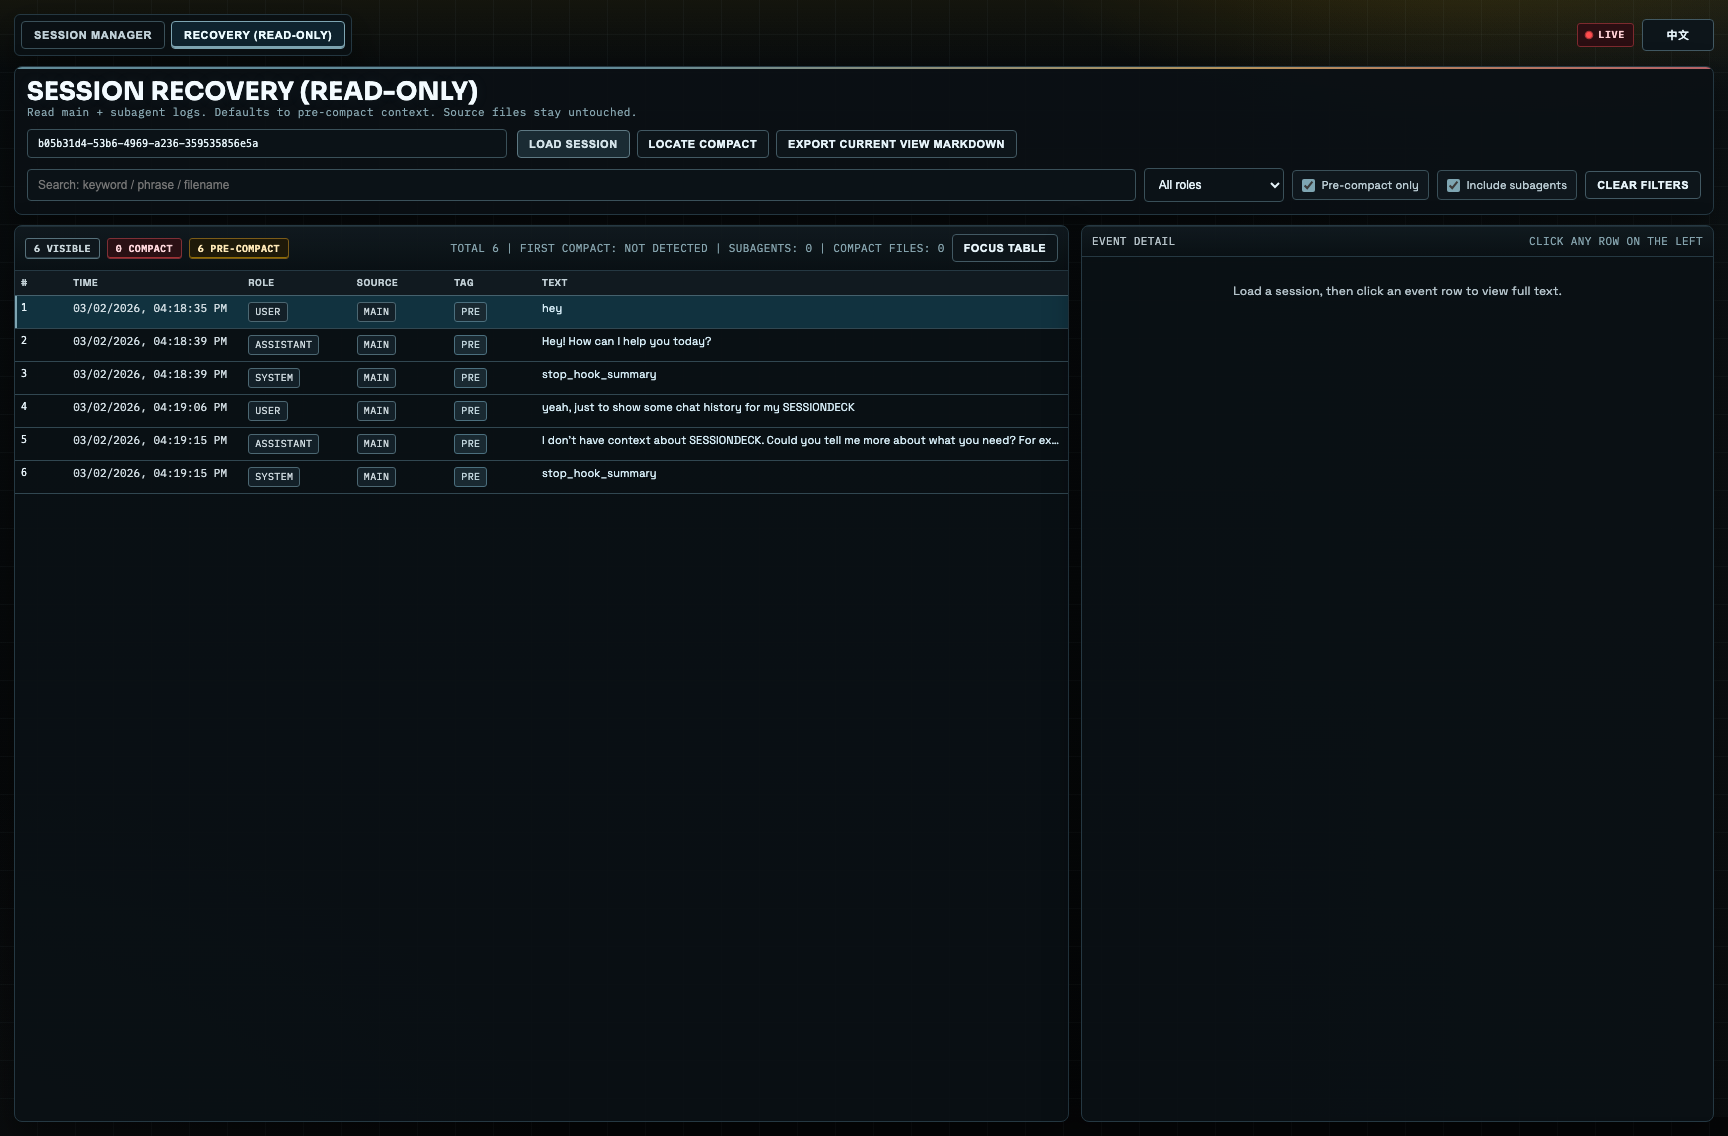
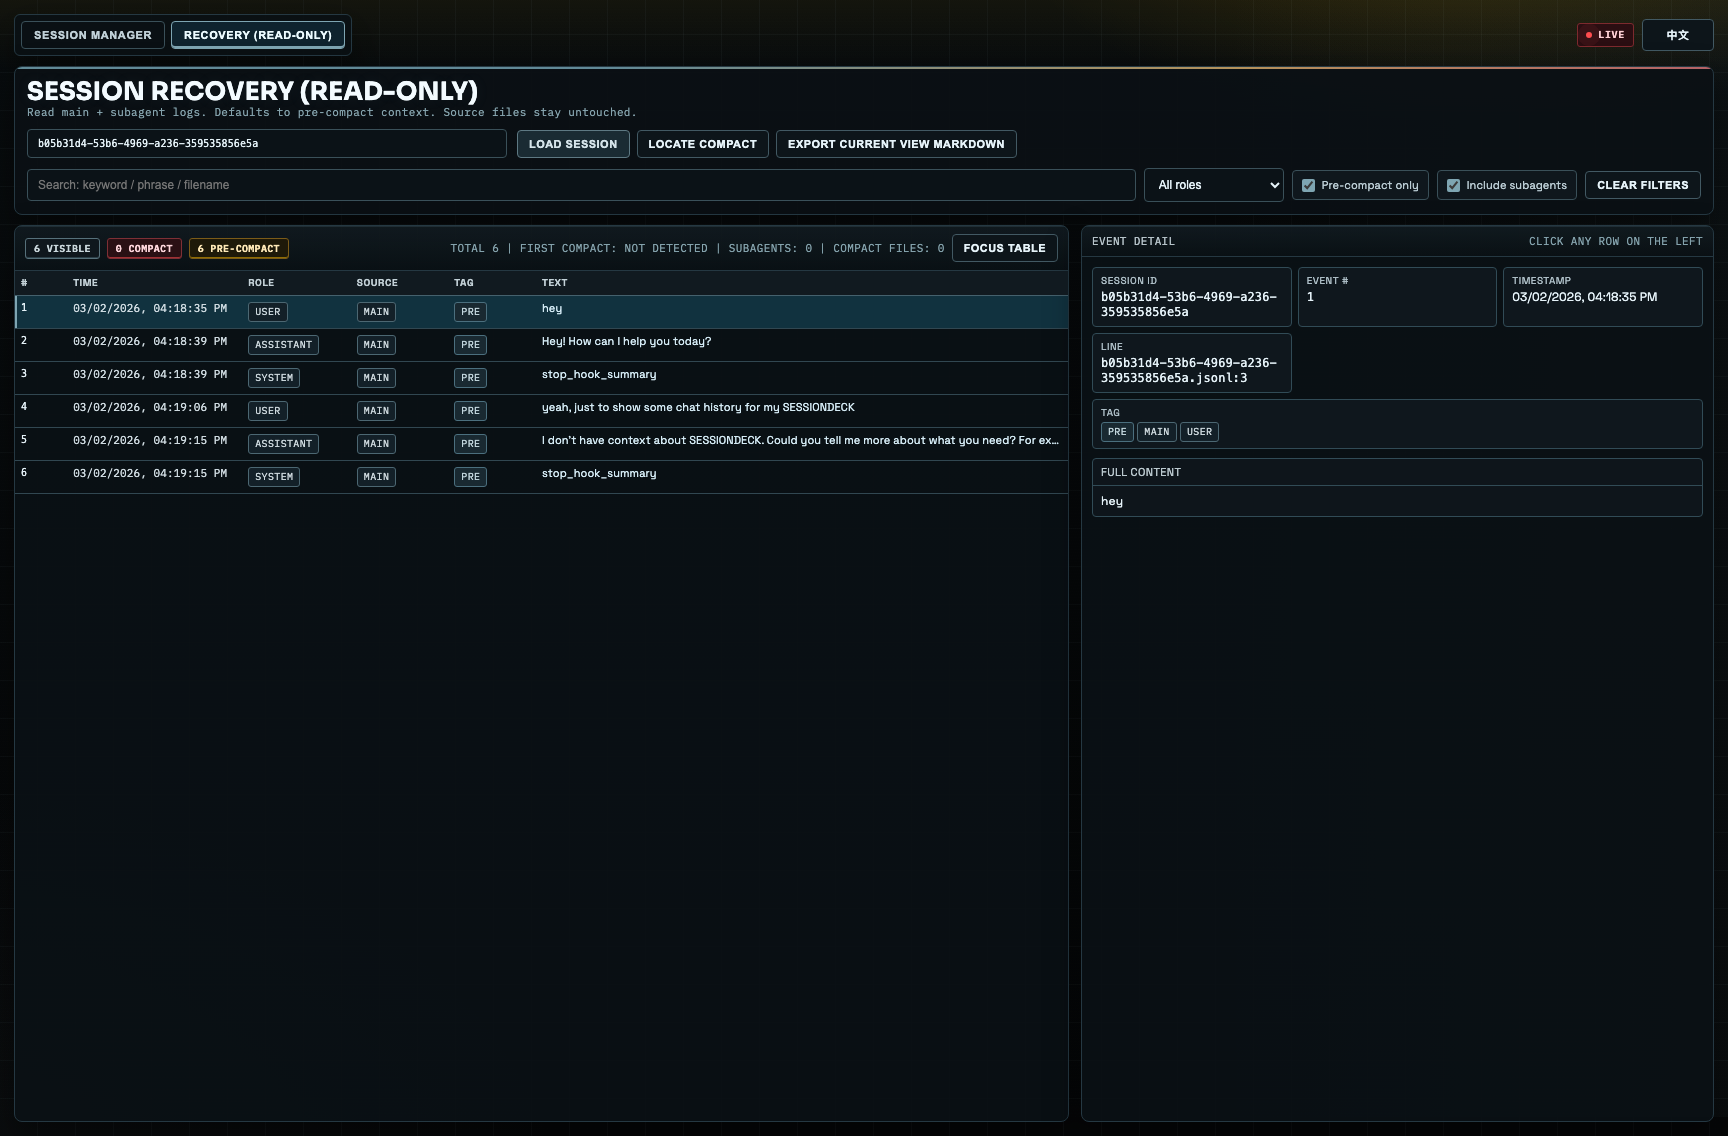
fix: preserve recovery event detail in demo screenshots

Changed region(s): [[0.625, 0.2465, 0.7812, 0.4313], [0.8125, 0.2465, 0.9688, 0.2773]]

diff --git a/index.html b/index.html
@@ -1638,14 +1638,17 @@
       if (!first || !first.key) return;
 
       m.selected.add(first.key);
-      await activateManagerSessionByKey(first.key);
-      renderManagerTable();
+      if (state.view === 'manager') {
+        await activateManagerSessionByKey(first.key);
+        renderManagerTable();
+        return;
+      }
 
-      if (state.view !== 'recovery') return;
-      if (!m.activeDetail?.sessionId || !SESSION_ID_RE.test(m.activeDetail.sessionId)) return;
+      const sid = String(first.sessionId || '').trim();
+      if (!SESSION_ID_RE.test(sid)) return;
 
-      state.recovery.sessionId = m.activeDetail.sessionId;
-      els.recoverySessionId.value = m.activeDetail.sessionId;
+      state.recovery.sessionId = sid;
+      els.recoverySessionId.value = sid;
       await loadRecoverySession();
 
       const firstEvent = state.recovery.filtered[0] || state.recovery.events[0];
@@ -2605,7 +2608,10 @@
       }
 
       renderRecoveryTable();
-      renderRecoveryPreview(null);
+      const activeRecoveryEvent = state.recovery.activeId != null
+        ? findRecoveryEventById(state.recovery.activeId)
+        : null;
+      renderRecoveryPreview(activeRecoveryEvent);
     }
 
     init();
